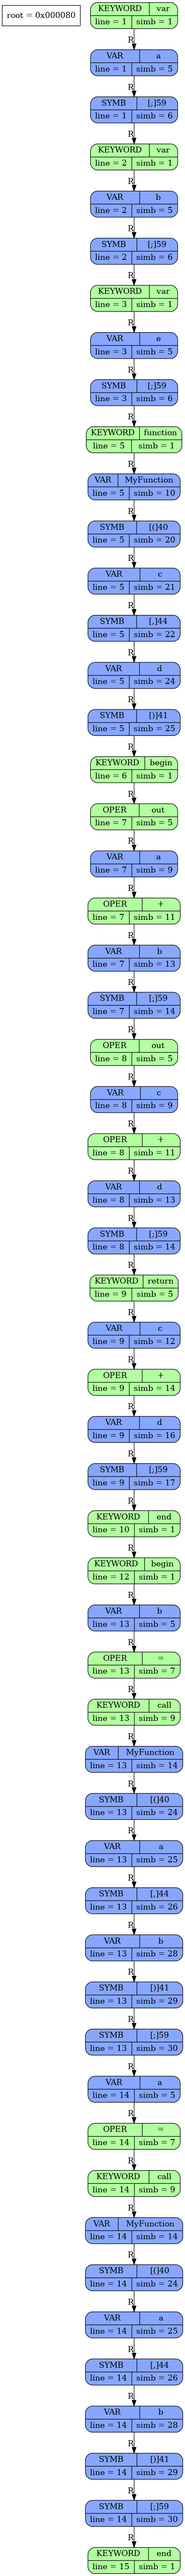
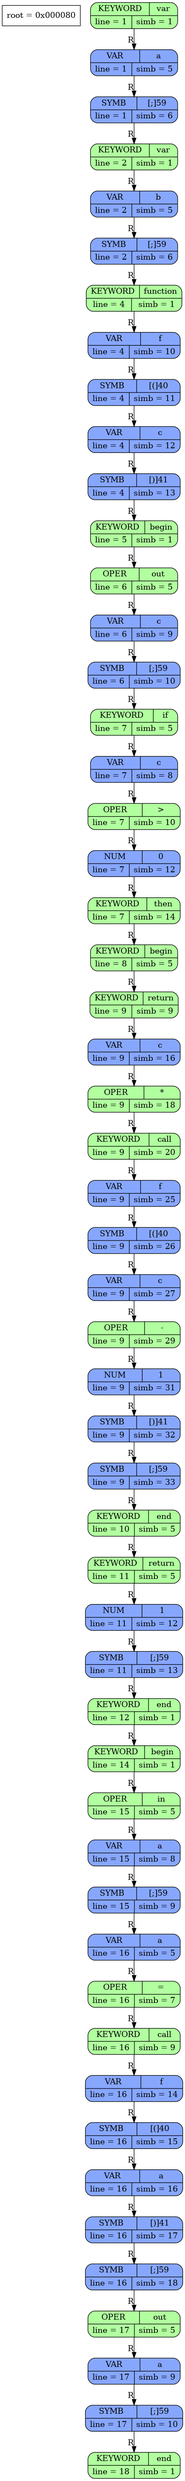
now you can call funcitons in this language

diff --git a/Libs/CreateAssembler/CreateAssembler.cpp b/Libs/CreateAssembler/CreateAssembler.cpp
@@ -53,7 +53,11 @@ int  PutWhile(Node* node, FILE* output_file);
 
 int  PutFunction(Node* node, FILE* output_file);
 
+int  PutCall(Node* node, FILE* output_file);
+
 int  PutReturn(Node* node, FILE* output_file);
+
+int  GetLastVarIndexToChangeOffset(const char* var);
 
 void StartScope();
 
@@ -62,6 +66,8 @@ void StartFuncScope();
 int  EndScope();
 
 int  GetArgsInFunction(Node* node, FILE* output_file);
+
+int  PutArgsInCallFunc(Node* node, FILE* output_file);
 
 //!-----------------
 //!@return error code
@@ -184,7 +190,6 @@ int GetVarIndex(const char* var, bool* is_local)
     ListEnd(&VARS, &list_end);
     while (index != -1)
     {
-        printf("VARS[i] = <%s>\n", VARS.data[index].val.name);
         if (!strcmp(VARS.data[index].val.name, START_FUNC_SCOPE.name))
             *is_local = true;
 
@@ -196,6 +201,17 @@ int GetVarIndex(const char* var, bool* is_local)
     }
 
     return -1;
+}
+
+int  GetLastVarIndexToChangeOffset()
+{
+    int list_end = 0;
+    ListEnd(&VARS, &list_end);
+
+    if (list_end == -1)
+        return -1;
+
+    return VARS.data[list_end].val.index;
 }
 
 int CreateAsmFromTree(Tree* tree, const char* output_file)
@@ -383,6 +399,22 @@ int PutWhile(Node* node, FILE* output_file)
     return 0;
 }
 
+int  PutArgsInCallFunc(Node* node, FILE* output_file)
+{
+    if (node == nullptr)
+        return 0;
+    
+    if (TYPE(node) == TYPE_FICT)
+    {
+        ReturnIfError(PutArgsInCallFunc(R(node), output_file));
+        ReturnIfError(PutArgsInCallFunc(L(node), output_file));
+    }
+    else
+        PutNodeInFile(node, output_file);
+
+    return 0;
+}
+
 int GetArgsInFunction(Node* node, FILE* output_file)
 {
     if (node == nullptr)
@@ -404,6 +436,8 @@ int PutFunction(Node* node, FILE* output_file)
 {
     int skip_label  = LabelCounter();
     int start_label = LabelCounter();
+    
+    AddFunction(VAL_FUNC(node), start_label);
 
     StartScope();                                           //!Start new scope
     StartFuncScope();                                       //!All variable, that will created is local
@@ -419,8 +453,6 @@ int PutFunction(Node* node, FILE* output_file)
     fprintf(output_file, "label%d:\n", skip_label);         //!skip_label
 
     EndScope();
-
-    AddFunction(VAL_FUNC(node), start_label);
 
     return 0;
 }
@@ -466,6 +498,28 @@ int PutReturn(Node* node, FILE* output_file)
     ReturnIfError(PutNodeInFile(R(node), output_file));
 
     fprintf(output_file, "ret\n");
+    return 0;
+}
+
+int  PutCall(Node* node, FILE* output_file)
+{
+    fprintf(output_file, "\nPUT_ARGS:\n");
+    PutArgsInCallFunc(L(node), output_file);
+    PutArgsInCallFunc(R(node), output_file);
+
+    int offset_change = GetLastVarIndexToChangeOffset() + 1;
+    fprintf(output_file, "push rdx\n");
+    fprintf(output_file, "push %d\n", offset_change);
+    fprintf(output_file, "add\n");
+    fprintf(output_file, "pop rdx\n");   
+
+    fprintf(output_file, "call label%d\n", GetFuncIndex(VAL_FUNC(node)));
+
+    fprintf(output_file, "push rdx\n");
+    fprintf(output_file, "push %d\n", offset_change);
+    fprintf(output_file, "sub\n");
+    fprintf(output_file, "pop rdx\n");
+
     return 0;
 }
 
@@ -528,6 +582,15 @@ int PutNodeInFile(Node* node, FILE* output_file)
                 printf("return\n");
             #endif
             ReturnIfError(PutReturn(node, output_file));
+            break;
+        }
+
+        case TYPE_CALL:
+        {
+            #ifdef DEBUG
+                printf("return\n");
+            #endif
+            ReturnIfError(PutCall(node, output_file));
             break;
         }
 

diff --git a/Libs/Setup.h b/Libs/Setup.h
@@ -3,7 +3,7 @@
 
 #include <cstddef>
 
-#define DEBUG
+//#define DEBUG
 
 enum NODE_TYPES
 {
@@ -55,6 +55,7 @@ enum OPER_TYPES
     OP_AND          = 15,
     OP_OR           = 16,
     OP_EQ           = 17,
+    OP_SQRT         = 18,
 };
 
 struct Node_t 
@@ -87,7 +88,7 @@ struct Keyword_t
 
 const int MAX_VAR_SIZE      = 20;
 
-const int STD_OPERATORS_NUM = 16;
+const int STD_OPERATORS_NUM = 17;
 
 const Operator_t STD_OPERATORS[] = {
                                     {"+",   OP_PLUS },
@@ -106,6 +107,7 @@ const Operator_t STD_OPERATORS[] = {
                                     {"!=",  OP_IS_NE},
                                     {"and", OP_AND  },
                                     {"or",  OP_OR   },
+                                    {"sqrt", OP_SQRT},
                                    };
 
 const int KEYWORDS_NUM = 11;
